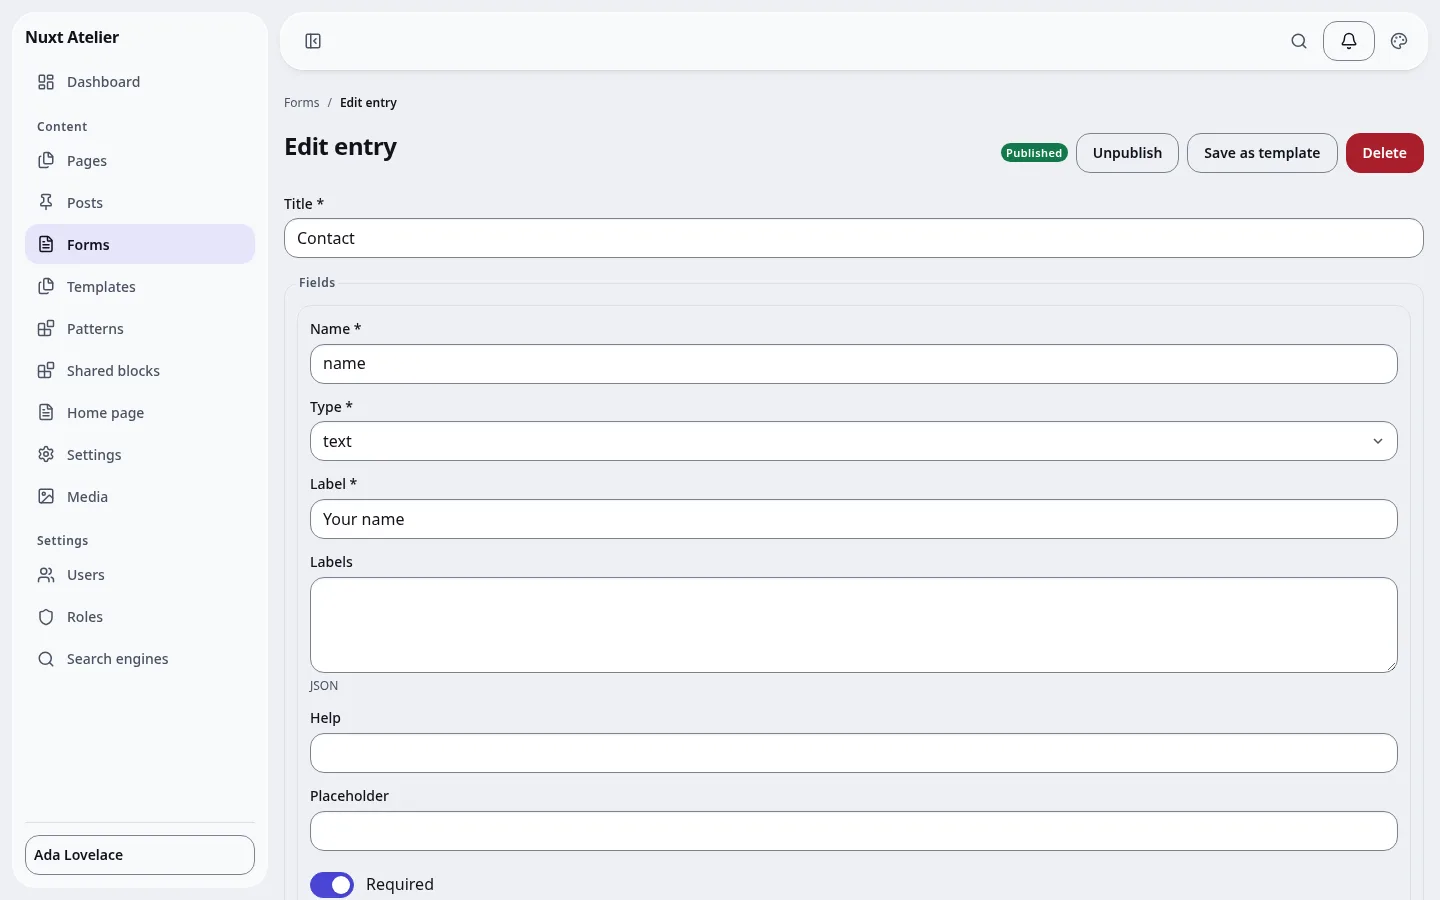
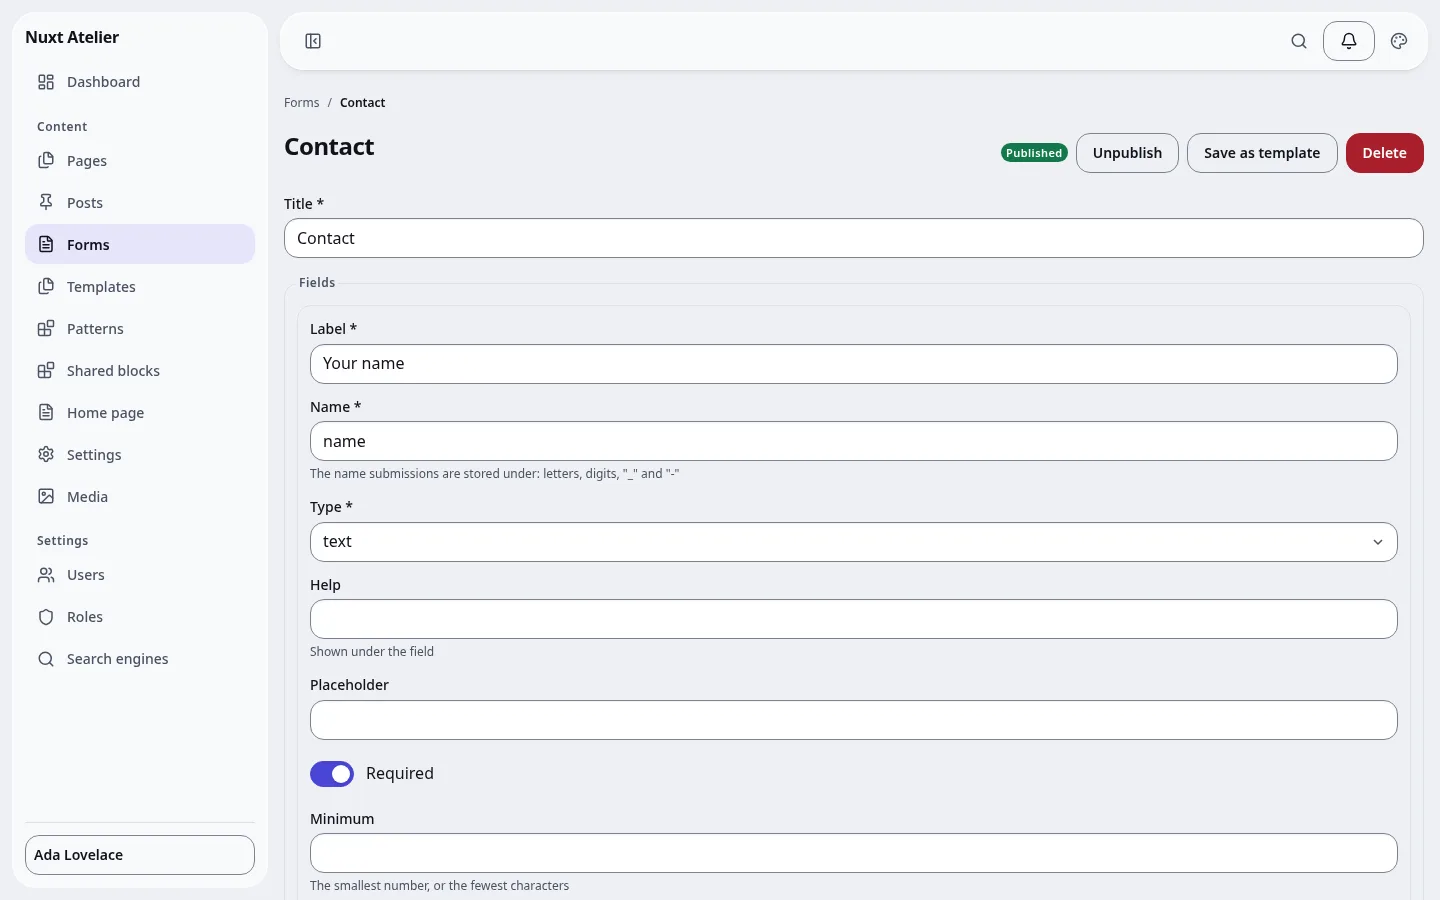
docs: block cards, the per-type form editor and readable activity, in the guides and screenshots

diff --git a/scripts/docs-screenshots.ts b/scripts/docs-screenshots.ts
@@ -88,6 +88,13 @@ await page.locator('[data-history] summary').click()
 await settle()
 await shot('admin-history', page.locator('[data-history]'))
 
+// a page's blocks in the form, one unfolded
+await admin('/singletons/home')
+await heading('Home page')
+await page.locator('[data-blocks-field] summary').nth(1).click()
+await settle()
+await shot('admin-blocks')
+
 await admin('/users')
 await heading('Users')
 await page.getByRole('button', { name: 'New user' }).click()

diff --git a/docs/content/2.guides/11.building-forms.md b/docs/content/2.guides/11.building-forms.md
@@ -7,12 +7,12 @@ description: For editors, making contact and sign-up forms, placing them on page
 
 In **Forms**, create a form and add its fields. Each field has:
 
-![The contact form being edited: its first field, with a name, type, label and options](/media/form-builder.webp)
+![The contact form being edited: its first field, a text field, with its label, name, type and the settings a text field takes](/media/form-builder.webp)
 
+- a **label**, and when the site has several languages, the label in each of the others
 - a **name**: how it's stored and exported (letters, digits, `_` and `-`; `email`, `message`…)
 - a **type**: text, email, textarea, number, select, checkbox, radio, date, file, hidden or consent
-- a **label**, and in **labels** the label in other languages, like `{ "de": "Ihr Name" }`
-- whether it's **required**, and its other rules: options for select and radio (one per line, `value` or `value|Label`), a minimum and maximum (numbers, or the length of text), a pattern, accepted file types (`image/*, application/pdf`) and the largest file in MB
+- whether it's **required**, and the rules its type takes, shown once you choose the type: options for select and radio (one per line, `value` or `value|Label`), a minimum and maximum (numbers, or the length of text), a pattern, accepted file types (`image/*, application/pdf`) and the largest file in MB, or a hidden field's value
 
 Then say what happens after someone sends it:
 

diff --git a/docs/content/2.guides/2.the-admin.md b/docs/content/2.guides/2.the-admin.md
@@ -47,8 +47,11 @@ Open an entry to edit it, or choose **New**. The form is built from the fields y
 - **Save draft** keeps your changes without publishing them (see [drafts and publishing](/guides/drafts-and-publishing)). In content without drafts, **Save** publishes straight away.
 - When a field needs fixing, the message is under it.
 - A media field shows the chosen file: **Choose** opens the library, where you pick a file or upload a new one.
+- A field made of blocks (a page's content) lists them as cards, each with its kind and first words. Open one to change it, move it up or down, or remove it; **Add block** adds one of the kinds that fit there. The [visual editor](/guides/visual-editor) edits the same blocks on the page.
 - When a field points to other entries (an author, say) and the one you need doesn't exist yet, choose **New author** under it: you create it in a dialog, it's selected, and nothing you typed in the form is lost.
 - If someone else saved the entry after you opened it, saving tells you so instead of overwriting their work: reload to see their changes.
+
+![The home page's form: its content as block cards, a page intro and two galleries, the first gallery unfolded to its title and images](/media/admin-blocks.webp)
 
 ### Formatting text
 
